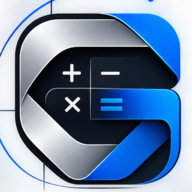
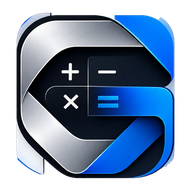
Funções f(x)/F(x,y), ícone sem fundo e ajustes de tela
- Analisa f(x)=…, F(x,y)=… e y=…: domínio, derivadas (parciais), raízes e f(0)
- Derivada de quociente fica no formato N/g² com fator comum em evidência
- Ícone: símbolo recortado com fundo transparente (ícone adaptativo no Android)
- Resposta com várias linhas em fonte menor; campo de digitação rola para o lado
- 122 testes

Claude-Session: https://claude.ai/code/session_01UcTSQRpNrJtiyxE1biTLKP

diff --git a/js/motor/funcoes.js b/js/motor/funcoes.js
@@ -1,0 +1,167 @@
+// Análise de funções: f(x) = …, F(x,y) = …, y = …
+// Domínio, forma simplificada, derivadas (parciais) e, para uma variável, raízes e corte no eixo y.
+import { Q, ErroMat } from './racional.js';
+import * as A from './ast.js';
+import { P, deAST } from './poli.js';
+import { resolverEquacao, resolverInequacao, raizesReais, latexConst } from './equacoes.js';
+import { derivarComPassos } from './calculo.js';
+
+const L = A.latex;
+const OPL = { '!=': '\\ne ', '>=': '\\ge ', '>': '>', '<=': '\\le ', '<': '<' };
+
+// junta as condições de existência percorrendo a expressão
+function condicoes(n, out = []) {
+  if (!n || typeof n !== 'object') return out;
+  if (n.t === '/' && A.temVar(n.r)) out.push({ e: n.r, op: '!=', por: 'o denominador não pode ser zero' });
+  if (n.t === 'sqrt' && A.temVar(n.a)) {
+    let par = true;
+    if (n.idx) { try { const k = deAST(n.idx); par = !(k.eQ && k.q.isInt && k.q.n % 2n === 1n); } catch { par = true; } }
+    if (par) out.push({ e: n.a, op: '>=', por: 'raiz de índice par só existe para número maior ou igual a zero' });
+  }
+  if (n.t === 'fn' && (n.n === 'ln' || n.n === 'log') && A.temVar(n.a)) out.push({ e: n.a, op: '>', por: 'logaritmo só existe para número positivo' });
+  if (n.t === 'fn' && (n.n === 'asin' || n.n === 'acos') && A.temVar(n.a)) {
+    out.push({ e: A.sub(A.num(1), A.pow(n.a, A.num(2))), op: '>=', por: 'arco-seno e arco-cosseno só existem entre −1 e 1' });
+  }
+  if (n.t === '^' && A.temVar(n.l)) {
+    try {
+      const e = deAST(n.r);
+      if (e.eQ && e.q.isNeg) out.push({ e: n.l, op: '!=', por: 'expoente negativo vira divisão: a base não pode ser zero' });
+      if (e.eQ && !e.q.isInt && e.q.d % 2n === 0n) out.push({ e: n.l, op: e.q.isNeg ? '>' : '>=', por: 'expoente fracionário com denominador par é uma raiz par' });
+    } catch { /* ignora */ }
+  }
+  for (const k of ['l', 'r', 'a', 'base']) if (n[k]) condicoes(n[k], out);
+  return out;
+}
+
+// escreve "expressão op 0" de um jeito mais natural: x²+y² ≠ 1
+function arrumarCondicao(c, vs) {
+  let p;
+  try { p = deAST(c.e); } catch { return { latex: `${L(c.e)}${OPL[c.op]}0`, p: null, op: c.op, k: null }; }
+  const k = p.termos.find((t) => !t.m.length);
+  const cte = k ? k.c : Q.ZERO;
+  let esq = p.sub(P.c(cte));
+  let dir = cte.neg();
+  let op = c.op;
+  const ord = esq.ordenados(vs[0]);
+  if (ord.length && ord[0].c.isNeg) {
+    esq = esq.neg(); dir = dir.neg();
+    op = { '!=': '!=', '>=': '<=', '>': '<', '<=': '>=', '<': '>' }[op];
+  }
+  if (esq.vazio) return { latex: `${p.latex()}${OPL[c.op]}0`, p, op: c.op, k: null };
+  return { latex: `${esq.latex(vs[0])}${OPL[op]}${dir.toLatex()}`, p, op: c.op, esq, dir, opArr: op };
+}
+
+function circunferencia(cond, vs) {
+  // a(x² + y²) = r → circunferência
+  if (vs.length !== 2 || !cond.esq) return null;
+  const [x, y] = vs;
+  const t = cond.esq.termos;
+  if (t.length !== 2) return null;
+  const ok = t.every((tt) => tt.m.length === 1 && tt.m[0][1].eq(2) && tt.c.eq(t[0].c)) && new Set(t.map((tt) => tt.m[0][0])).size === 2;
+  if (!ok || !t.every((tt) => [`v:${x}`, `v:${y}`].includes(tt.m[0][0]))) return null;
+  const r2 = cond.dir.div(t[0].c);
+  if (r2.sign() <= 0) return null;
+  const r = P.c(r2).pow(new Q(1n, 2n));
+  return { raio: latexConst(r) };
+}
+
+export function analisarFuncao(no, opts = {}) {
+  const { nome, vars, f } = no;
+  const vs = vars.length ? vars : [...A.variaveis(f)].sort();
+  if (!vs.length) throw new ErroMat('A função precisa ter pelo menos uma variável.');
+  const extras = [...A.variaveis(f)].filter((v) => !vs.includes(v));
+  const passos = [];
+  const cab = `${nome}(${vs.join(',')})`;
+  const defin = `${cab}=${L(f)}`;
+  passos.push({ titulo: vs.length > 1 ? `Função de ${vs.length} variáveis` : 'Função de uma variável', texto: vs.length > 1 ? `${nome} depende de ${vs.join(' e ')}: para cada ponto (${vs.join(', ')}) ela dá um número.` : `Para cada valor de ${vs[0]}, a função dá um número.` + (extras.length ? ` As letras ${extras.join(', ')} são tratadas como constantes.` : ''), latex: defin });
+
+  // forma simplificada
+  let fs = f;
+  try {
+    const p = deAST(f, opts);
+    const b = p.toASTBonito(vs[0]);
+    if (L(b) !== L(f) && L(b).length < L(f).length) { fs = b; passos.push({ titulo: 'Simplificando', texto: 'Juntamos os termos e simplificamos a expressão.', latex: `${cab}=${L(b)}` }); }
+  } catch (e) { if (!(e instanceof ErroMat)) throw e; }
+
+  // domínio
+  const conds = condicoes(f);
+  const vistos = new Set();
+  const lista = [];
+  for (const c of conds) {
+    const a = arrumarCondicao(c, vs);
+    if (vistos.has(a.latex)) continue;
+    vistos.add(a.latex);
+    lista.push({ ...a, por: c.por, orig: c });
+  }
+  const R = vs.length === 1 ? '\\mathbb{R}' : `\\mathbb{R}^{${vs.length}}`;
+  const ponto = vs.length === 1 ? vs[0] : `(${vs.join(',')})`;
+  let dominio;
+  if (!lista.length) {
+    dominio = `D=${R}`;
+    passos.push({ titulo: 'Domínio', texto: 'Não há divisão por expressão com variável, nem raiz par, nem logaritmo: a função existe para qualquer valor.', latex: dominio });
+  } else {
+    const partes = [];
+    for (const c of lista) {
+      let latexCond = c.latex;
+      let texto = `Condição: ${c.por}.`;
+      if (vs.length === 1) {
+        try {
+          if (c.orig.op === '!=') {
+            const p = deAST(c.orig.e);
+            const rz = raizesReais(p, vs[0]);
+            if (rz.length) latexCond = rz.map((r) => `${vs[0]}\\ne ${r.latex}`).join(',\\ ');
+            else { texto += ' Essa expressão nunca zera, então não tira nenhum ponto.'; latexCond = null; }
+          } else {
+            const r = resolverInequacao({ t: 'eq', op: c.orig.op, l: c.orig.e, r: A.num(0) }, opts);
+            latexCond = r.resposta.startsWith('\\left') || r.resposta.includes('\\cup') || r.resposta === '\\varnothing' ? `${vs[0]}\\in ${r.resposta}` : r.resposta;
+          }
+        } catch (e) { if (!(e instanceof ErroMat)) throw e; }
+      }
+      const circ = circunferencia(c, vs);
+      if (circ && c.opArr === '!=') texto += ` Geometricamente: tiramos os pontos da circunferência de centro (0, 0) e raio ${circ.raio}.`;
+      if (circ && (c.opArr === '<=' || c.opArr === '<')) texto += ` Geometricamente: o disco de centro (0, 0) e raio ${circ.raio}.`;
+      passos.push({ titulo: 'Domínio: condição de existência', texto, latex: `${L(c.orig.e)}${OPL[c.orig.op]}0${latexCond && latexCond !== `${L(c.orig.e)}${OPL[c.orig.op]}0` ? `\\;\\Rightarrow\\;${latexCond}` : ''}` });
+      if (latexCond) partes.push(latexCond);
+    }
+    dominio = partes.length ? `D=\\left\\{${ponto}\\in ${R}\\mid ${partes.join(',\\ ')}\\right\\}` : `D=${R}`;
+    passos.push({ titulo: 'Domínio', texto: 'Juntando as condições:', latex: dominio });
+  }
+
+  // derivadas
+  const derivs = [];
+  for (const v of vs) {
+    const sub = derivarComPassos(fs, v, 1);
+    const parcial = vs.length > 1;
+    const sim = parcial ? `\\frac{\\partial ${nome}}{\\partial ${v}}` : `${nome}'(${v})`;
+    passos.push({ titulo: parcial ? `Derivada parcial em relação a ${v}` : 'Derivada', texto: parcial ? (() => { const o = vs.filter((w) => w !== v); return `Derivamos só em ${v}; ${o.length > 1 ? o.join(' e ') + ' ficam parados, como se fossem números' : o[0] + ' fica parado, como se fosse um número'}.`; })() : 'Aplicamos as regras de derivação.', latex: `${sim}=${L(sub.respostaExpr)}` });
+    for (const p of sub.passos) {
+      passos.push({ ...p, titulo: '   ' + p.titulo, latex: parcial ? p.latex.split(`\\frac{d}{d${v}}`).join(`\\frac{\\partial}{\\partial ${v}}`).replace(/^f'\([a-z]\)/, sim) : p.latex });
+    }
+    derivs.push(`${sim}=${L(sub.respostaExpr)}`);
+  }
+  if (vs.length === 2) passos.push({ titulo: 'Vetor gradiente', texto: 'Juntando as derivadas parciais: o gradiente aponta para onde a função cresce mais rápido.', latex: `\\nabla ${nome}=\\left(\\frac{\\partial ${nome}}{\\partial ${vs[0]}},\\ \\frac{\\partial ${nome}}{\\partial ${vs[1]}}\\right)` });
+
+  // uma variável: raízes e corte no eixo y
+  const linhas = [dominio, ...derivs];
+  if (vs.length === 1 && !extras.length) {
+    const v = vs[0];
+    try {
+      const r = resolverEquacao({ t: 'eq', op: '=', l: f, r: A.num(0) }, { ...opts, var: v });
+      passos.push({ titulo: 'Raízes (onde a função vale zero)', texto: `Resolvemos ${nome}(${v}) = 0. Nesses pontos o gráfico corta o eixo ${v}.`, latex: r.resposta });
+      linhas.push(`\\text{Raízes: }${r.resposta}`);
+    } catch (e) { if (!(e instanceof ErroMat)) throw e; }
+    try {
+      const y0 = deAST(A.substituir(f, v, A.num(0)), opts);
+      if (isFinite(A.avaliar(y0.toAST(), {}))) {
+        passos.push({ titulo: 'Corte no eixo y', texto: `Trocamos ${v} por 0.`, latex: `${nome}(0)=${latexConst(y0)}` });
+        linhas.push(`${nome}(0)=${latexConst(y0)}`);
+      }
+    } catch (e) { if (!(e instanceof ErroMat)) throw e; }
+  }
+  return {
+    tipo: 'funcao', titulo: vs.length > 1 ? 'Função de várias variáveis' : 'Função',
+    entrada: defin,
+    resposta: `\\begin{array}{l}${linhas.join('\\\\')}\\end{array}`,
+    passos,
+  };
+}

diff --git a/js/motor/calculo.js b/js/motor/calculo.js
@@ -36,11 +36,46 @@ export function derivarComPassos(f, v, ordem = 1) {
     if (ordem > 1) passos.push({ titulo: `Derivada de ordem ${k}`, texto: k === 1 ? 'Começamos pela primeira derivada.' : 'Derivamos de novo o resultado anterior.', latex: dd(v, atual) });
     const ctx = { v, passos, n: 0 };
     const d = D(atual, ctx);
-    const s = simp(d, v);
+    const s = simpDeriv(atual, d, v);
     if (L(s) !== L(limpar(d))) passos.push({ titulo: 'Simplificando', texto: 'Organizamos e juntamos os termos.', latex: `${ordem > 1 ? `f^{(${k})}` : `f'`}(${v})=${L(s)}` });
     atual = s;
   }
   return { tipo: 'derivada', titulo: ordem > 1 ? `Derivada de ordem ${ordem}` : 'Derivada', entrada: L({ t: 'deriv', f, v, ordem }), resposta: `${ordem === 1 ? "f'" : ordem === 2 ? "f''" : `f^{(${ordem})}`}(${v})=${L(atual)}`, respostaExpr: atual, passos };
+}
+
+// simplifica a derivada mantendo o formato de quociente: N / g²
+function simpDeriv(f, d, v) {
+  if (f.t === '/' && A.temVar(f.r, v)) {
+    try {
+      const df = derivar(f.l, v), dg = derivar(f.r, v);
+      const N = deAST(A.sub(A.mul(df, f.r), A.mul(f.l, dg)));
+      if (N.vazio) return A.num(0);
+      return A.dvd(emEvidencia(N, v), A.pow(f.r, A.num(2)));
+    } catch (e) { if (!(e instanceof ErroMat)) throw e; }
+  }
+  return simp(d, v);
+}
+
+// coloca o fator comum em evidência: -2xy² + 2x → -2x(y² - 1)
+export function emEvidencia(p, v) {
+  const ts = p.termos;
+  if (ts.length < 2 || p.temDenominador()) return p.toAST(v);
+  let g = 0n;
+  const mdc = (a, b) => { a = a < 0n ? -a : a; b = b < 0n ? -b : b; while (b) [a, b] = [b, a % b]; return a; };
+  for (const t of ts) { if (!t.c.isInt) return p.toAST(v); g = mdc(g, t.c.n); }
+  const exps = new Map();
+  ts[0].m.forEach(([k, e]) => exps.set(k, e));
+  for (const t of ts.slice(1)) {
+    const m = new Map(t.m);
+    for (const [k, e] of [...exps]) { if (!m.has(k)) exps.delete(k); else if (m.get(k).cmp(e) < 0) exps.set(k, m.get(k)); }
+  }
+  for (const [k, e] of [...exps]) if (!e.isInt || e.isNeg || k.startsWith('n:')) exps.delete(k);
+  let fator = P.mono([...exps]).mulQ(new Q(g));
+  let resto = p.div(fator);
+  if (resto.ordenados(v)[0]?.c.isNeg) { fator = fator.neg(); resto = resto.neg(); }
+  if (fator.eQ && fator.q.isOne) return p.toAST(v);
+  if (fator.eQ && fator.q.eq(-1)) return A.neg(resto.toAST(v));
+  return A.mul(fator.toAST(v), resto.toAST(v), true);
 }
 
 export function derivar(f, v) { return simp(D(f, { v, passos: null, n: 0 }), v); }
@@ -91,9 +126,10 @@ function D(n, ctx) {
       }
       if (!A.temVar(n.l, v)) {
         // c/g → -c·g'/g²
+        const ps = pos0(ctx);
         const dg = D(n.r, ctx);
         const r = A.neg(A.dvd(A.mul(n.l, simp(dg, v)), A.pow(n.r, A.num(2))));
-        reg(ctx, 'Regra do quociente', "(c/g)' = −c·g'/g²", n, r);
+        reg(ctx, 'Regra do quociente', `(c/g)' = −c·g'/g², com c = ${L(n.l)} constante e g = ${L(n.r)}.`, n, r, ps);
         return r;
       }
       const ps = pos0(ctx);

diff --git a/js/motor/parser.js b/js/motor/parser.js
@@ -219,6 +219,8 @@ class Parser {
       if (this.is('endsys')) this.next();
       return eqs.length === 1 ? eqs[0] : { t: 'sys', eqs };
     }
+    const fdef = this.tentarFuncao();
+    if (fdef) return fdef;
     const itens = [this.relacao()];
     while (this.is(';') || this.is('nl') || (this.is(',') && itens[0].t === 'eq')) {
       this.next();
@@ -232,6 +234,32 @@ class Parser {
     }
     if (itens.length > 1) return { t: 'sys', eqs: itens };
     return itens[0];
+  }
+
+  // f(x) = …  ou  F(x,y) = …
+  tentarFuncao() {
+    const ini = this.i;
+    const nome = this.peek();
+    if (!nome || nome.k !== 'id' || this.peek(1)?.k !== '(') return null;
+    let j = this.i + 2;
+    const vars = [];
+    for (;;) {
+      const t = this.t[j];
+      if (!t || t.k !== 'id' || t.v === 'e') return null;
+      vars.push(t.v);
+      j++;
+      if (this.t[j]?.k === ',' || this.t[j]?.k === ';') { j++; continue; }
+      if (this.t[j]?.k === ')') { j++; break; }
+      return null;
+    }
+    if (this.t[j]?.k !== 'rel' || this.t[j].v !== '=') return null;
+    if (vars.includes(nome.v) || new Set(vars).size !== vars.length || ['x', 'y', 'z', 't'].includes(nome.v) && vars.length === 1 && false) return null;
+    this.i = j + 1;
+    try {
+      const f = this.expr();
+      if (!this.fim()) { this.i = ini; return null; }
+      return { t: 'func', nome: nome.v, vars, f };
+    } catch (e) { this.i = ini; throw e; }
   }
 
   relacao() {

diff --git a/css/app.css b/css/app.css
@@ -76,7 +76,7 @@ main { max-width: 760px; margin: 0 auto; padding: 14px 16px; display: flex; flex
 .abas button.ativa svg { color: var(--blue2); }
 
 math-field {
-  display: block; width: 100%; min-height: 76px; font-size: 1.75rem; padding: 12px 14px;
+  display: block; width: 100%; min-height: 76px; font-size: 1.5rem; overflow-x: auto; padding: 12px 14px;
   background: var(--card2); color: var(--text); border: 1px solid var(--line); border-radius: 12px;
   --caret-color: #4c91ff; --selection-background-color: rgba(31, 111, 255, 0.35); --selection-color: #fff;
   --contains-highlight-background-color: rgba(31, 111, 255, 0.12); --placeholder-color: #4c91ff; --primary-color: #4c91ff;
@@ -130,6 +130,7 @@ math-field::part(menu-toggle) { display: none; }
 .res-questao small, .res-resposta small { display: block; color: var(--muted); font-size: 12px; margin-bottom: 6px; text-transform: uppercase; letter-spacing: 1px; }
 .mat { overflow-x: auto; overflow-y: hidden; font-size: 1.15rem; padding: 2px 0; }
 .mat.grande { font-size: 1.6rem; color: #fff; }
+.mat.grande.multi { font-size: 1.12rem; line-height: 1.5; }
 .mat.conj { font-size: 1rem; color: var(--muted); margin-top: 6px; }
 .decimal { color: var(--blue2); margin-top: 4px; font-size: 15px; }
 .aviso { margin: 8px 0; padding: 10px 12px; border-radius: 10px; font-size: 14px; background: rgba(255, 181, 71, 0.1); border: 1px solid rgba(255, 181, 71, 0.35); color: #ffd79a; }

diff --git a/js/motor/index.js b/js/motor/index.js
@@ -8,6 +8,7 @@ import { resolverAritmetica } from './aritmetica.js';
 import { resolverEquacao, resolverSistema, latexConst } from './equacoes.js';
 import { derivarComPassos, integrarComPassos, limiteComPassos } from './calculo.js';
 import { ferramenta } from './ferramentas.js';
+import { analisarFuncao } from './funcoes.js';
 
 export { ErroMat, analisar };
 
@@ -15,7 +16,13 @@ export function resolver(entrada, opts = {}) {
   const ast = typeof entrada === 'string' ? analisar(entrada, opts) : entrada;
   let r;
   switch (ast.t) {
-    case 'eq': r = resolverEquacao(ast, opts); break;
+    case 'func': r = analisarFuncao(ast, opts); break;
+    case 'eq':
+      // y = 2x + 3  → função y de x
+      if (ast.op === '=' && ast.l.t === 'var' && !A.temVar(ast.r, ast.l.n) && A.temVar(ast.r) && !opts.var) {
+        r = analisarFuncao({ t: 'func', nome: ast.l.n, vars: [...A.variaveis(ast.r)].sort(), f: ast.r }, opts);
+      } else r = resolverEquacao(ast, opts);
+      break;
     case 'sys': r = resolverSistema(ast, opts); break;
     case 'deriv': r = derivarComPassos(ast.f, ast.v, ast.ordem); break;
     case 'int': r = integrarComPassos(ast, opts); break;

diff --git a/js/motor/ast.js b/js/motor/ast.js
@@ -132,6 +132,7 @@ export function latex(n) {
       return `\\lim_{${n.v}\\to ${latex(n.to)}${lado}} ${prec(n.f) <= 2 ? paren(latex(n.f)) : latex(n.f)}`;
     }
     case 'call': return `\\operatorname{${n.n}}${paren(n.args.map(latex).join(';\\ '))}`;
+    case 'func': return `${n.nome}\\left(${n.vars.join(',')}\\right)=${latex(n.f)}`;
     case 'pm': return `${latex(n.l)}\\pm ${latex(n.r)}`;
     case 'raw': return n.s;
     default: throw new Error('latex: tipo desconhecido ' + n.t);

diff --git a/js/app.js b/js/app.js
@@ -169,6 +169,7 @@ function mostrarResultado(r, origem) {
   $('resOrigem').className = 'origem ok';
   mat($('resQuestao'), r.entrada);
   mat($('resResposta'), r.resposta);
+  $('resResposta').classList.toggle('multi', /^\\begin\{array\}/.test(r.resposta) || r.resposta.length > 70);
   $('resDecimal').textContent = r.decimal ? r.decimal : '';
   mat($('resConjunto'), r.conjunto || '', false);
   const av = $('resAviso');
